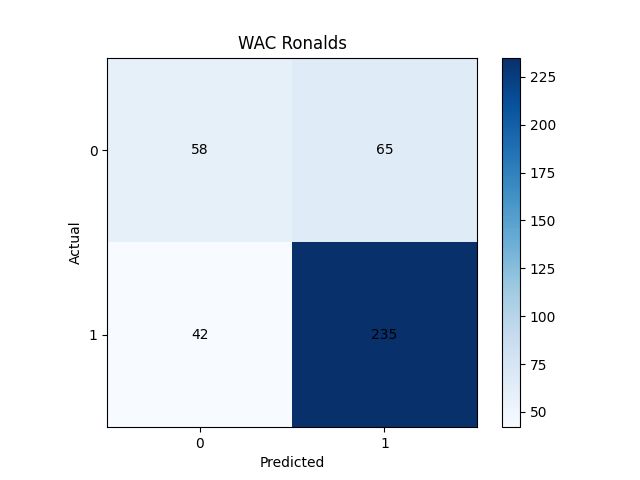
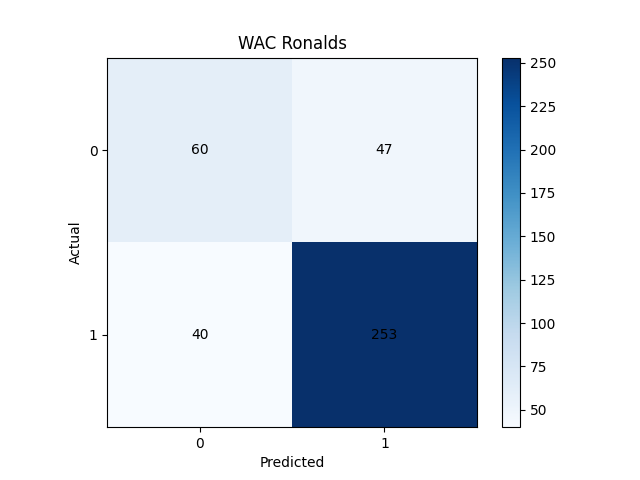
TERMINADO

diff --git a/tnn_parte3_clasificacion.py b/tnn_parte3_clasificacion.py
@@ -5,6 +5,7 @@ import torch.nn as nn
 from MultiLayerNet import Net as MLN
 from SimpleLayerNet import Net as SLN
 from tnn_parte3_metrics import metrics
+from SpecialLayerNet import Net as CLN
 from torch.utils.data import DataLoader
 from CustomDataset_parte3 import CustomDataset as Dataset
 
@@ -15,14 +16,15 @@ def create_optimizer(Net, learning_rate = 0.01):
 
 def testing(model, data):
     dataset = Dataset(data)
+    test_dataloader = DataLoader(dataset, batch_size=10, shuffle=True)
     # mendys burger queen, rigos, wac ronalds,     
     Metrics = metrics()
     print("Neural Network output:")
-    for i in range(len(dataset)):
-        x, y = dataset[i]
+    for (x,y) in test_dataloader:
         out = model.forward(x)
-        list_out = out.tolist()
-        Metrics.get_metrics(list_out, y)
+        for i in range(10):
+            Metrics.get_metrics(out[i].tolist(), y.tolist()[i])
+        
     Metrics.print_all_metrics()
     Metrics.plot_all_matrix()
 
@@ -40,77 +42,76 @@ def train_model():
     eps = 0.005
     max_epocas_sin_decremento = 5
     learning_rate = 0.01
-    Net = MLN(number_neurons) if numero_capas == 2 else SLN(number_neurons)
+    Net = MLN(number_neurons) if numero_capas == 2 else SLN(number_neurons) if numero_capas == 1 else CLN(number_neurons)
     optimizer = create_optimizer(Net, learning_rate)    
     dataset = Dataset(datos_entrenamiento)
     validDataset= Dataset(datos_validacion)
-    train_dataloader = DataLoader(dataset, batch_size=10, shuffle=True)
+    batch_size = 10
+    train_dataloader = DataLoader(dataset, batch_size=batch_size, shuffle=True)
+    valid_dataloader = DataLoader(validDataset, batch_size=batch_size, shuffle=True)
     previous_prom_loss = 0.0
     epocas_sin_decremento = 0
-    min_val = 0.0
-    min_val_per_epoch = 0.0
+    min_val_per_epoch = None
     epoch = 0
     
     for epoch in range(1000):
         print((epoch+1), end=",")
         print("train", end=",")
         prom_loss_train = 0
+        Net.train()
+        cantidad = 0
         for (x, y) in train_dataloader:
+            cantidad += 1
             optimizer.zero_grad()
             output = Net.forward(x)
             criterion = torch.nn.NLLLoss()
             loss = criterion(output, y)
-            prom_loss_train += loss
+            prom_loss_train += loss.item()
             loss.backward()
             optimizer.step()
             for i,out in enumerate(output):
                 list_out = out.tolist() 
-                #print(list_out, " ---> ", y[i])
                 MetricsTrain.get_metrics(list_out, y.tolist()[i])
-        MetricsTrain.print_all_metrics()
-            # train_acc = torch.sum(output == y)
-        
+            
+        MetricsTrain.print_all_metrics()    
         prom_loss_train = prom_loss_train / len(train_dataloader)
-        print("{:.4f}".format(prom_loss_train.item()), end=',')
+        print("{:.4f}".format(prom_loss_train), end=',')
         print()
         with torch.no_grad():
+            Net.eval()
             print((epoch+1), end=",")
             prom_loss_val = 0
             print("val", end=",")
-            for i in range(len(validDataset)):
-                x, y = validDataset[i]
+            for (x,y) in valid_dataloader:
                 output = Net.forward(x)
                 list_out = output.tolist()
-                MetricsVal.get_metrics(list_out, y)
-                    
-                criterion = torch.nn.NLLLoss()
-                loss = criterion(output, y)
-                prom_loss_val += loss
-                    
-
-                if(loss < min_val_per_epoch or min_val_per_epoch == 0):
-                    min_val_per_epoch = loss
+                for i in range(10):                    
+                    MetricsVal.get_metrics(list_out[i], y.tolist()[i])
+                    criterion = torch.nn.NLLLoss()
+                    loss = criterion(output[i], y[i])
+                    prom_loss_val += loss.item()
             
             MetricsVal.print_all_metrics()
-            prom_loss_val = prom_loss_val / len(dataset)
-            if (min_val < prom_loss_val or min_val == 0):
-                min_val = prom_loss_val
+            prom_loss_val = prom_loss_val / len(validDataset)
+            
+            if(min_val_per_epoch is None or prom_loss_val < min_val_per_epoch):
+                min_val_per_epoch = prom_loss_val
+            
 
-            print("{:.4f}".format(prom_loss_val.item()), end=',')
+            print("{:.4f}".format(prom_loss_val), end=',')
             print()
 
-            # Max epocassin decremento
-            if abs(prom_loss_val - previous_prom_loss) > eps and previous_prom_loss != 0:
+            if (prom_loss_val - previous_prom_loss) > eps and previous_prom_loss != 0:
                 break
-            previous_prom_loss = prom_loss_val
             if (prom_loss_val > min_val_per_epoch):
                 epocas_sin_decremento += 1
             else:
                 epocas_sin_decremento = 0
             if (epocas_sin_decremento == max_epocas_sin_decremento):
                 break    
+            previous_prom_loss = prom_loss_val
+    Net.save_state("parte_3_L" + str(numero_capas) + "_" + str(len(os.listdir("./Pesos/"))) + "_Epochs_" + str(epoch) + "_Neurons_" + str(number_neurons) + "_LearningRate_" + str(learning_rate))
     testing(Net, datos_prueba)
-    #Net.save_state("parte_3_L" + numero_capas + "_" + str(len(os.listdir("./Pesos/"))) + "_Epochs_" + epoch + "_Neurons_" + str(number_neurons) + "_LearningRate_" + str(learning_rate))
 
 if __name__ == "__main__":
     train_model()

diff --git a/tnn_parte3_analizador.py b/tnn_parte3_analizador.py
@@ -1,48 +1,61 @@
 import os
 import pandas as pd
+from sys import argv
 import matplotlib.pyplot as plt
 
-def main():
-    pandas_list = []
-    for subdir, dirs, files in os.walk("./NLLLOSS/"):
-        for fileName in files:
-            if fileName.split('.')[1] == "csv":
-                df = pd.read_csv(os.path.join(subdir,fileName), index_col=0, header=None, encoding='utf_16_le')
-                #remove last column
-                df = df.drop(df.columns[[-1]], axis=1)
-                pandas_list.append(df)
-                
-    epochs = pandas_list[0].shape[0]
-    epochs_list = [i for i in range(epochs)]
-    max_list = []
-    min_list = []
-    mean_list = []
-    for j in range(epochs):
-        max = 0
-        min = -1
-        mean = 0
-        for i in pandas_list:
-            for k in i.iloc[j]:
-                if k > max:
-                    max = k
-                if k < min or min == -1:
-                    min = k
-                mean += k
-        mean = mean / (len(pandas_list) * len(pandas_list[0].iloc[j]))
-        max_list.append(max)
-        min_list.append(min)
-        mean_list.append(mean)
+
+
+def save_plot(className, epochs_list, val1, lbl1, lbl2, val2, train = False, hayVal = False):
+    output_folder = argv[2]
+    plt.clf()
     plt.xlabel("Epochs")
-    plt.ylabel("NLLLOSS")
-    plt.title("NLLLOSS vs Epochs")
+    plt.ylabel("Values")
+    plt.title( ("Train" if train else "Validation") + " Performance vs Epochs")
     plt.xticks([1, len(epochs_list)])
-    plt.plot(epochs_list, max_list, label="Max")
-    plt.plot(epochs_list, min_list, label="Min")
-    plt.plot(epochs_list, mean_list, label="Mean")
+    plt.plot(epochs_list, val1, label=lbl1)
+    if hayVal:
+        plt.plot(epochs_list, val2, label=lbl2)
     plt.legend()
-    plt.show()
+    type = "_train" if train else "_validation"
+    metrics = "F1Acc_" if hayVal else "NLLLOSS_"
+    plt.savefig(output_folder + "/" + metrics + className + type + ".png")
+
+def main():
+
+    if len(argv) != 3:
+        print("Usage: python tnn_parte3_analizador.py <archivo_de_resultados> <output_folder>")
+        exit(1)
+    data_name = argv[1]
+    df = pd.read_csv(data_name, index_col=0, header=None, encoding='utf_16_le')
+    df = df.drop(df.columns[[-1]], axis=1)
     
+    epochs = int((df.shape[0] - 2)/2)
+    epochs_list = [i for i in range(epochs)]
     
+    #get rows with value validation
+    df_val = df[df[1] == 'val']
+    df_train = df[df[1] == 'train']
+    
+    save_plot("Mendys", epochs_list, df_train[:][2], 'F1-Score', 'Accuracy', df_train[:][3], train = True, hayVal = True)
+    save_plot("Burger Queen", epochs_list, df_train[:][4], 'F1-Score', 'Accuracy', df_train[:][5], train = True, hayVal = True)
+    save_plot("Rigos", epochs_list, df_train[:][6], 'F1-Score', 'Accuracy', df_train[:][7], train = True, hayVal = True)
+    save_plot("Wac Ronalds", epochs_list, df_train[:][8], 'F1-Score', 'Accuracy', df_train[:][9], train = True, hayVal = True)
+        
+    save_plot("Mendys", epochs_list, df_val[:][2], 'F1-Score', 'Accuracy', df_val[:][3])
+    save_plot("Burger Queen", epochs_list, df_val[:][4], 'F1-Score', 'Accuracy', df_val[:][5])
+    save_plot("Rigos", epochs_list, df_val[:][6], 'F1-Score', 'Accuracy', df_val[:][7])
+    save_plot("Wac Ronalds", epochs_list, df_val[:][8], 'F1-Score', 'Accuracy', df_val[:][9])
+    
+    save_plot("Mendys", epochs_list, df_train[:][10], 'NLLLOSS', 0, 0, train = True)
+    save_plot("Burger Queen", epochs_list, df_train[:][10], 'NLLLOSS',0,0, train = True)
+    save_plot("Rigos", epochs_list, df_train[:][10], 'NLLLOSS',0,0, train = True)
+    save_plot("Wac Ronalds", epochs_list, df_train[:][10], 'NLLLOSS',0,0, train = True)
+
+    save_plot("Mendys", epochs_list, df_val[:][10], 'NLLLOSS',0,0)
+    save_plot("Burger Queen", epochs_list, df_val[:][10], 'NLLLOSS',0,0)
+    save_plot("Rigos", epochs_list, df_val[:][10], 'NLLLOSS',0,0)
+    save_plot("Wac Ronalds", epochs_list, df_val[:][10], 'NLLLOSS',0,0)
+
 
 if __name__ == '__main__':
     main()

diff --git a/SpecialLayerNet.py b/SpecialLayerNet.py
@@ -1,28 +1,33 @@
 import torch
 import torch.nn as nn
-import torch.nn.functional as F
 
 
 class Net(nn.Module):
 
     def __init__(self, neurons = 8):
         super(Net, self).__init__()
-        self.fc1 = nn.Linear(15,  neurons) 
-        self.fc2 = nn.Linear(neurons,  neurons) 
-        self.fc3 = nn.Linear(neurons,  neurons) 
-        self.fc4 = nn.Linear(neurons, 4)
-        self.m = nn.LogSoftmax()
-        nn.init.xavier_normal_(self.fc1.weight)
-        nn.init.xavier_normal_(self.fc2.weight)
-        nn.init.xavier_normal_(self.fc3.weight)
-        nn.init.xavier_normal_(self.fc4.weight)
+        self.layers = nn.Sequential(
+            nn.Linear(15,  neurons),
+            nn.BatchNorm1d(neurons),
+            nn.Sigmoid(),
+            nn.Linear(neurons,  neurons*2),
+            nn.BatchNorm1d(neurons*2),
+            nn.Sigmoid(),
+            nn.Linear(neurons*2,  neurons),
+            nn.BatchNorm1d(neurons),
+            nn.Sigmoid(),
+            nn.Linear(neurons,  4),
+            nn.LogSoftmax()
+        )
+        
+        def init_weights(m):
+            if isinstance(m, nn.Linear):
+                torch.nn.init.xavier_normal_(m.weight)
+                m.bias.data.fill_(0.01)
+        self.layers.apply(init_weights)
 
     def save_state(self, name):
         torch.save(self.state_dict(), "./Classification_Models/" + name + ".pkl")
 
     def forward(self, x):
-        x = torch.sigmoid(self.fc1(x))
-        x = torch.sigmoid(self.fc2(x))
-        x = torch.sigmoid(self.fc3(x))
-        x = self.m(self.fc4(x))
-        return x
+        return self.layers(x)

diff --git a/tnn_parte3_entrenamiento.py b/tnn_parte3_entrenamiento.py
@@ -4,6 +4,7 @@ from sys import argv
 import torch.nn as nn
 from MultiLayerNet import Net as MLN
 from SimpleLayerNet import Net as SLN
+from SpecialLayerNet import Net as CLN
 from torch.utils.data import DataLoader
 from CustomDataset_parte3 import CustomDataset as Dataset
 
@@ -30,7 +31,8 @@ def train_model():
         number_neurons = int(argv[4])
         output_file = argv[5]
     
-    Net = MLN(number_neurons) if argv[6] == '2' else SLN(number_neurons)
+    numero_capas = int(argv[6])
+    Net = MLN(number_neurons) if numero_capas == 2 else SLN(number_neurons) if numero_capas == 1 else CLN(number_neurons)
 
     optimizer = create_optimizer(Net, learning_rate)    
 

diff --git a/tnn_parte3_prediction.py b/tnn_parte3_prediction.py
@@ -32,7 +32,7 @@ def main():
     model = None
     try:
         tl['fc4.weight']
-        #model = MLN.Net(neurons)
+        model = CLN.Net(neurons)
     except:
         try:
             tl['fc3.weight']
